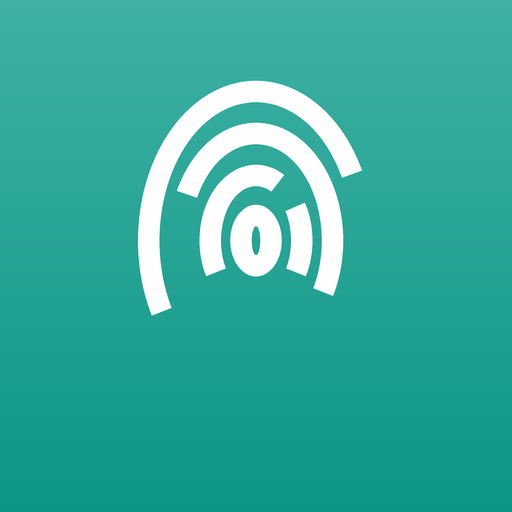
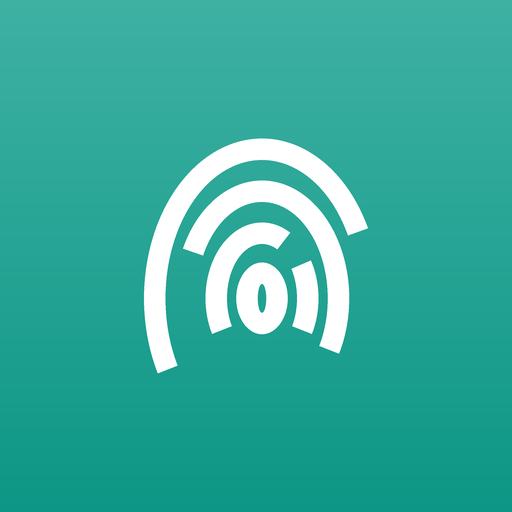
아이콘 표식을 그린 뒤 실제 테두리로 가운데 맞춤
지장처럼 아래가 트인 모양은 좌표대로 두면 위로 쏠려 보인다(jae 지적).
표식을 투명 판에 그린 뒤 getbbox로 재서 한가운데로 옮긴다 — 앞으로
어떤 모양을 넣어도 같은 문제가 안 생긴다. 세 아이콘 여백 실측 위=아래.

Changed region(s): [[0.25, 0.1562, 0.7188, 0.75]]

diff --git a/docs/sw.js b/docs/sw.js
@@ -1,5 +1,5 @@
 /* 노트앱 서비스워커 — 앱 껍데기를 통째로 캐시한다. 판이 바뀌면 V 가 바뀌어 옛 캐시는 지운다 */
-const V="notedesk-85834e69c2";
+const V="notedesk-5e3e6ff2b8";
 const SHELL=["./", "./index.html", "./vendor/jszip.min.js", "./sangdam/icon-180.png", "./sangdam/icon-192.png", "./gijil/", "./gijil/index.html", "./gijil/manifest.webmanifest", "./gijil/icon-180.png", "./gijil/icon-192.png", "./gijil/icon-512.png", "./josa/", "./josa/index.html", "./josa/manifest.webmanifest", "./josa/icon-180.png", "./josa/icon-192.png", "./josa/icon-512.png", "./sangdam/", "./sangdam/index.html", "./sangdam/manifest.webmanifest", "./sangdam/icon-512.png"];
 self.addEventListener("install",e=>{
   e.waitUntil(caches.open(V).then(c=>c.addAll(SHELL.map(u=>new Request(u,{cache:"reload"})))).then(()=>self.skipWaiting()));

diff --git a/빌드.py b/빌드.py
@@ -156,6 +156,15 @@ def make_icons(out, a):
             d.line([(0, y), (S, y)], fill=_lerp(top, bot, y / S))
         layer = Image.new("RGBA", (S, S), (0, 0, 0, 0))
         MARK[a["dir"]](ImageDraw.Draw(layer), S, (255, 255, 255, 255), base)
+        # 그린 것의 실제 테두리를 재서 한가운데로 옮긴다 — 아래가 트인 모양(지장)은
+        # 좌표대로 두면 위로 쏠려 보인다(2026-10-23 jae 지적)
+        bb = layer.getbbox()
+        if bb:
+            dx, dy = (S - bb[0] - bb[2]) // 2, (S - bb[1] - bb[3]) // 2
+            if dx or dy:
+                moved = Image.new("RGBA", (S, S), (0, 0, 0, 0))
+                moved.paste(layer, (dx, dy))
+                layer = moved
         im = Image.alpha_composite(im.convert("RGBA"), layer).convert("RGB")
         im = im.resize((size, size), Image.LANCZOS)
         buf = io.BytesIO(); im.save(buf, format="PNG", optimize=True)
